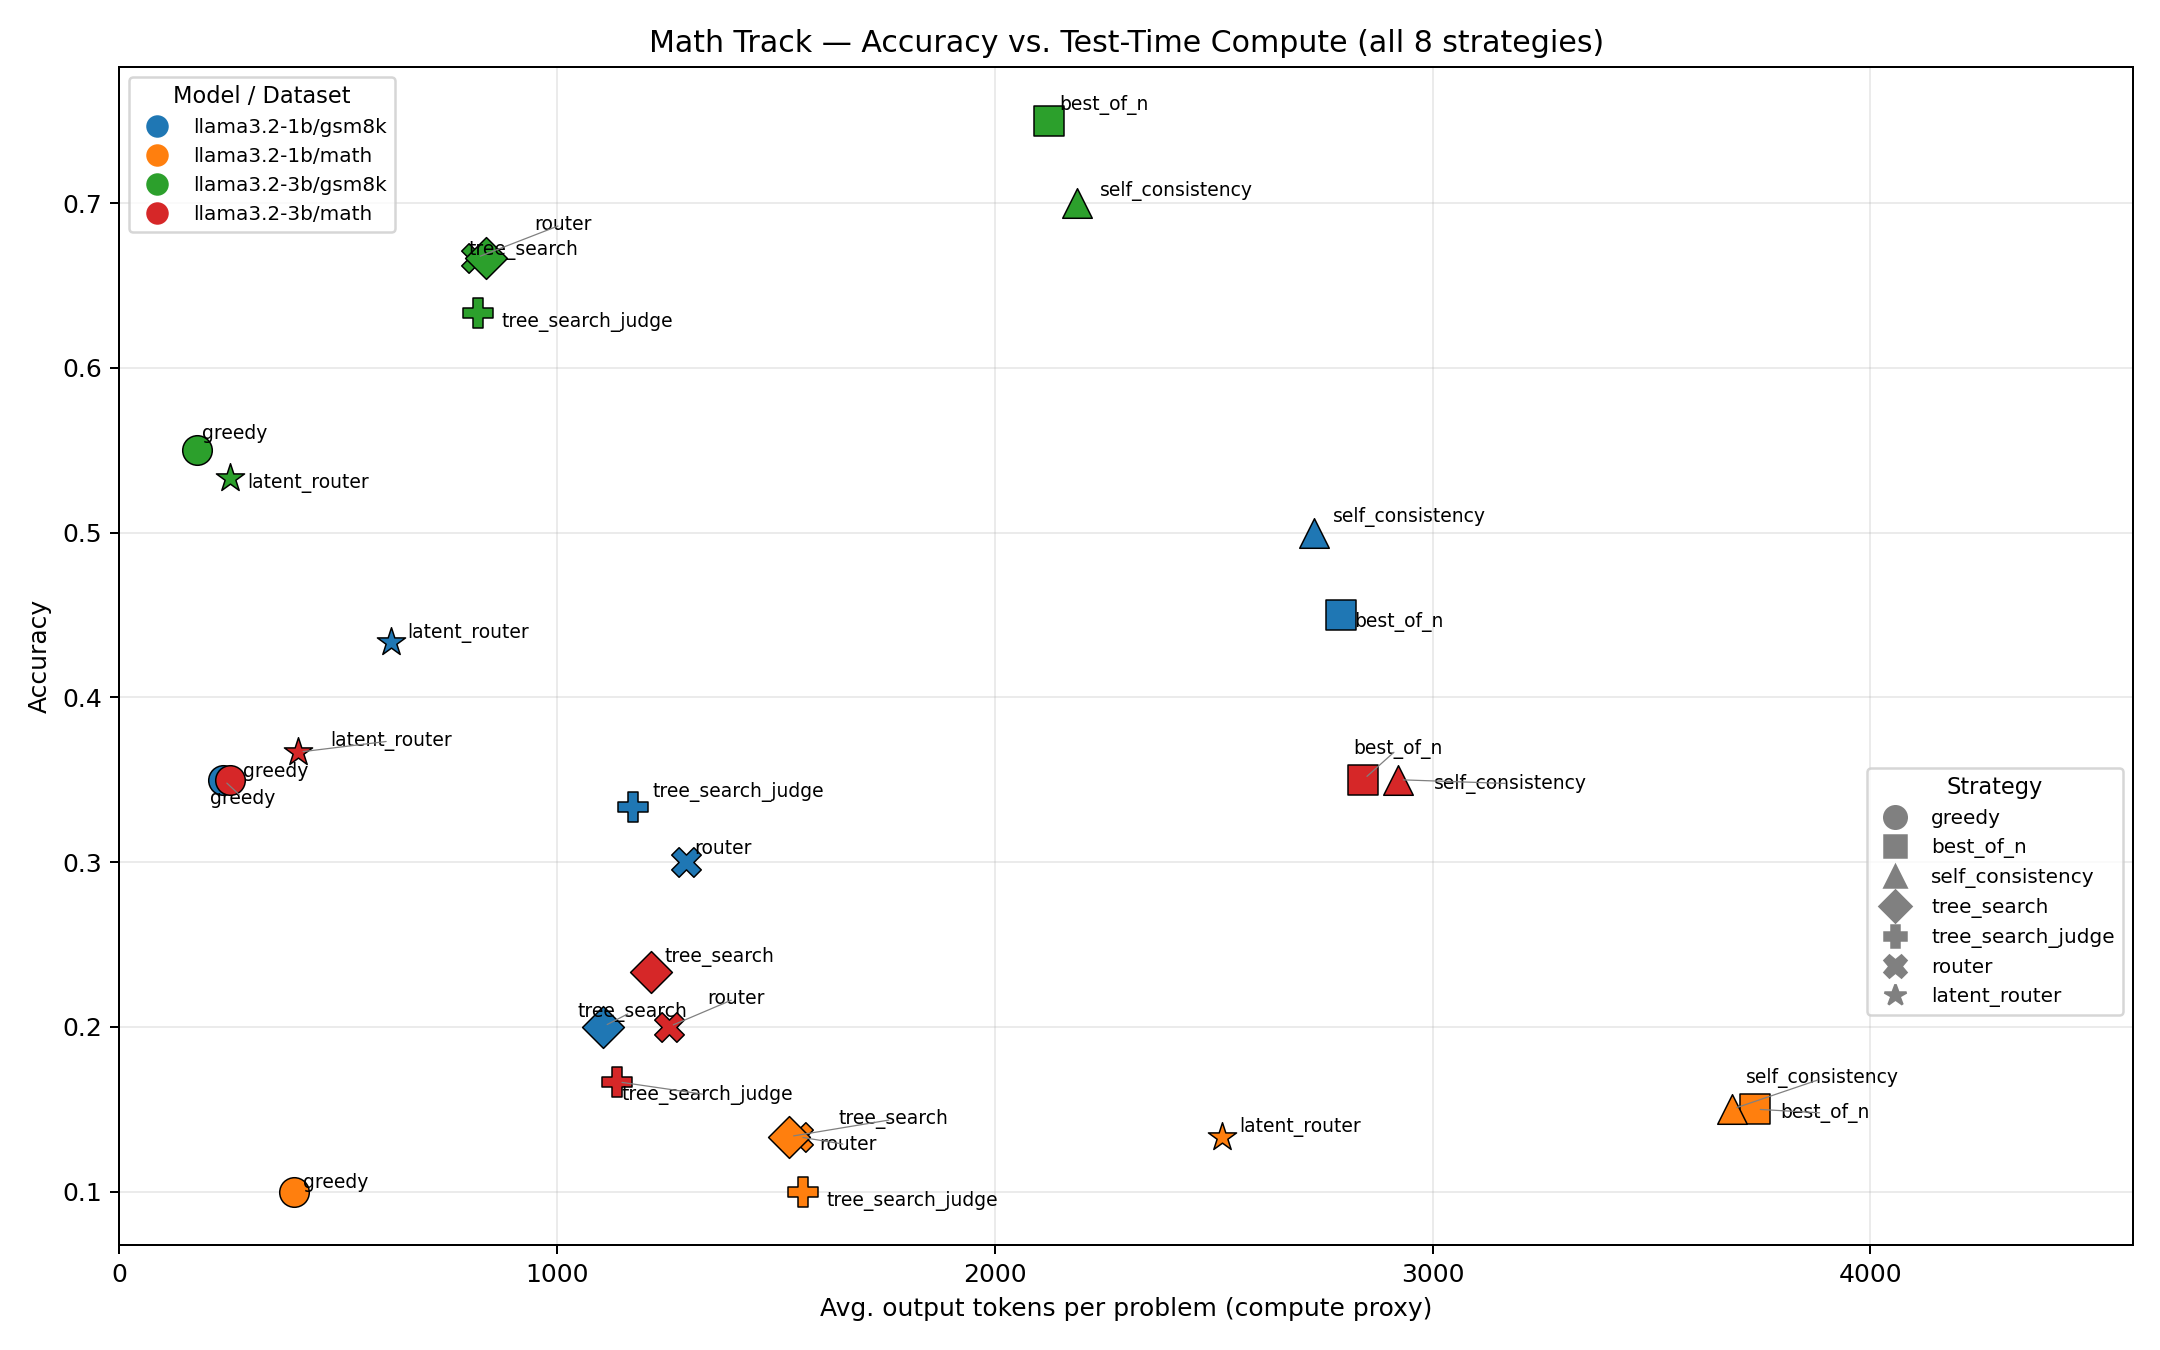
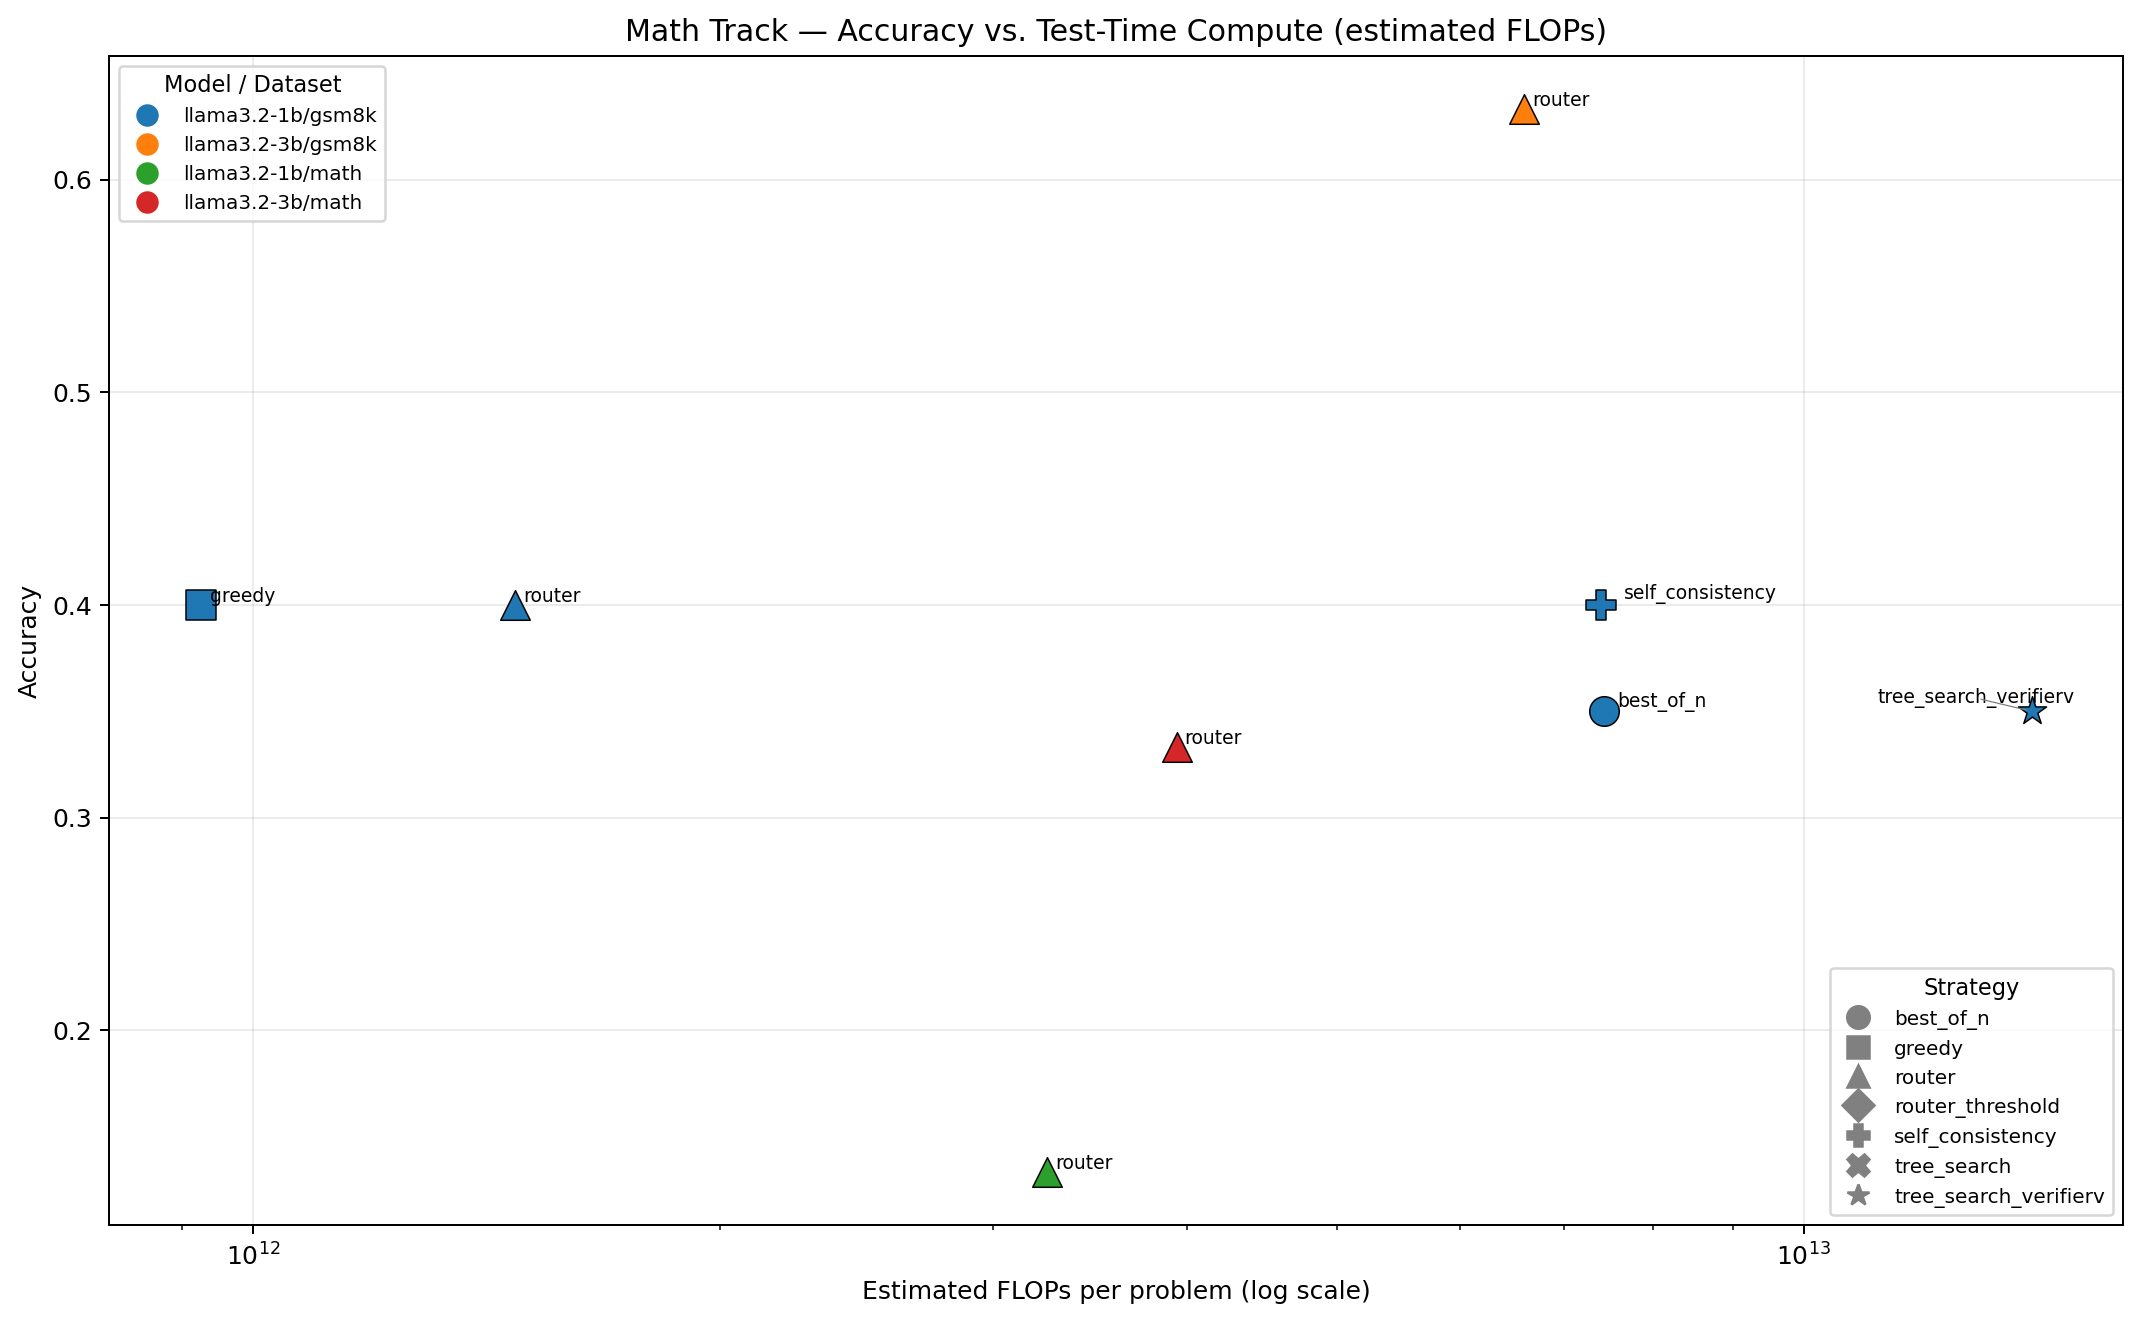
docs: document round 3 findings — FLOPs accounting, learned latent router results and limitations

diff --git a/README.md b/README.md
@@ -1,0 +1,94 @@
+# Math Track — Test-Time Compute Scaling for Small LMs
+
+Partner A deliverable for the "Test-Time Compute Scaling for Small Language Models" project.
+Domain: **Math** — Llama-3.2-1B & Llama-3.2-3B on **GSM8K** and **MATH**.
+
+This repo implements the six shared strategies end-to-end and independently of the
+Code (Partner B) and Reasoning (Partner C) tracks, per the Team Work Assignment Guide.
+
+**Status: pipeline validated end-to-end; FLOPs-based compute accounting and a**
+**learned latent router (ported from the code track) are in.** See
+[`RESULTS.md`](RESULTS.md) for the current summary table, findings, and known
+limitations (small sample sizes, router training data scarcity) — read that
+before citing any numbers in the paper. Full-test-set runs and backfilling
+FLOPs across all combos are the next steps, budget permitting.
+
+## Strategies implemented
+
+| # | Strategy | Script |
+|---|----------|--------|
+| 1 | Greedy Decoding | `scripts/run_greedy.py` |
+| 2 | Best-of-N | `scripts/run_best_of_n.py` |
+| 3 | Self-Consistency | `scripts/run_self_consistency.py` |
+| 4 | Tree Search | `scripts/run_tree_search.py` |
+| 5 | Verifier | `scripts/train_verifier.py` (+ used by strategies 2/4/6) |
+| 6 | Router | `scripts/run_router.py` |
+
+## Repo layout
+
+```
+math-track/
+├── configs/config.yaml        # model names, sampling params, paths
+├── src/
+│   ├── data_utils.py          # GSM8K / MATH loading + prompt formatting
+│   ├── answer_utils.py        # answer extraction + correctness checking
+│   ├── model_utils.py         # model/tokenizer loading (HF transformers)
+│   ├── hub_utils.py           # push checkpoints/results to HF Hub
+│   └── strategies/
+│       ├── greedy.py
+│       ├── best_of_n.py
+│       ├── self_consistency.py
+│       ├── tree_search.py
+│       ├── verifier.py
+│       └── router.py
+├── scripts/                   # thin CLI entry points, one per strategy
+└── logs/, checkpoints/        # created at runtime, gitignored
+```
+
+## Quickstart on Kaggle
+
+1. New Kaggle Notebook → enable a GPU accelerator (T4 x2 or P100).
+2. Add your Hugging Face token as a Kaggle **Secret** named `HF_TOKEN`
+   (needed for gated Llama-3.2 weights and for pushing checkpoints).
+3. Clone this repo into the notebook:
+   ```bash
+   !git clone https://github.com/<your-username>/math-track.git
+   %cd math-track
+   !pip install -r requirements.txt -q
+   ```
+4. Log in to HF Hub:
+   ```python
+   from huggingface_hub import login
+   from kaggle_secrets import UserSecretsClient
+   login(UserSecretsClient().get_secret("HF_TOKEN"))
+   ```
+5. Run stage by stage, cheapest first (this also validates your setup early):
+   ```bash
+   !python scripts/run_greedy.py --model llama3.2-1b --dataset gsm8k --split test --limit 50
+   ```
+   Drop `--limit` once you've confirmed it runs, and repeat for `llama3.2-3b`, `math`, etc.
+6. Each run writes results to `logs/<strategy>_<model>_<dataset>.jsonl` and pushes checkpoints /
+   result tables to your HF Hub repo (see `configs/config.yaml`).
+
+## Order of operations (recommended)
+
+1. `run_greedy.py` — cheapest, gives your baseline accuracy + FLOPs-per-problem reference.
+2. `run_best_of_n.py` and `run_self_consistency.py` — both just need repeated sampling.
+3. `train_verifier.py` — train the correctness/quality scorer; needed for tree search re-ranking
+   and for the router's difficulty signal.
+4. `run_tree_search.py` — most expensive, do last on a compute budget.
+5. `run_router.py` — combines everything: routes each problem to a strategy based on the
+   verifier's difficulty signal.
+6. `scripts/evaluate_all.py` — aggregates all logs into one results table + a performance-vs-FLOPs
+   plot for the paper.
+
+## Compute budgeting knobs
+
+All in `configs/config.yaml`:
+- `best_of_n.n_candidates`
+- `self_consistency.n_samples`
+- `tree_search.branching_factor`, `tree_search.max_depth`
+- `models.max_new_tokens`
+
+Start small (`n=4`, `limit=50`) to sanity-check correctness before scaling up to full
+GSM8K (1,319 test) / MATH test split — these are what generate your FLOPs-vs-accuracy curve.
